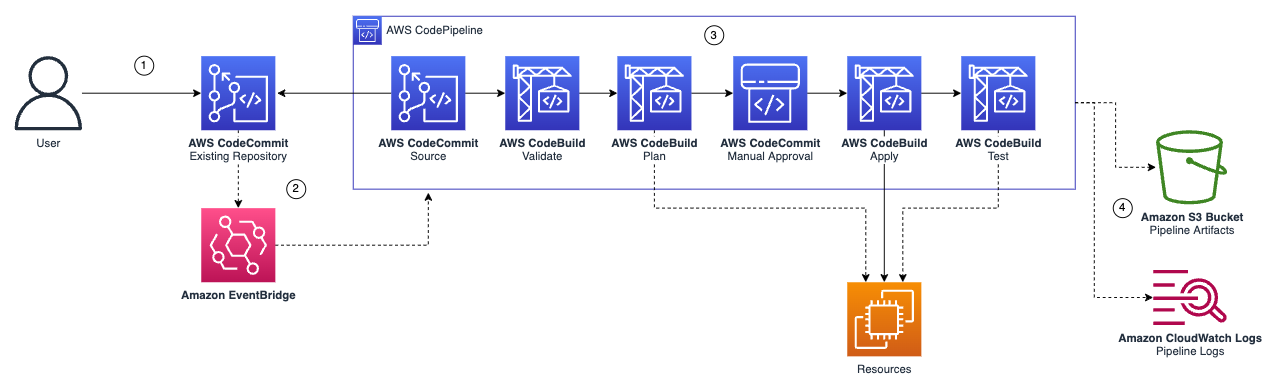
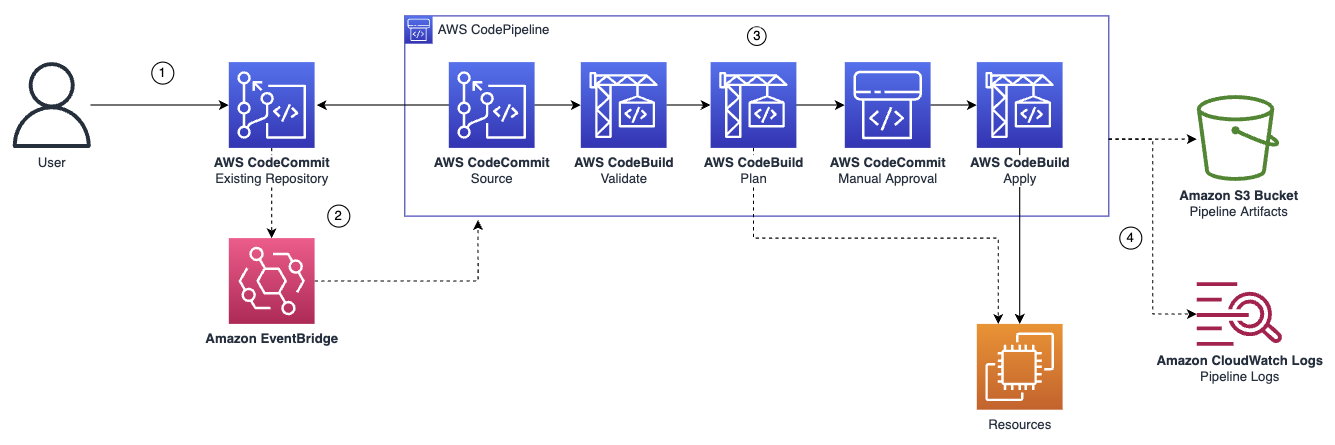
rm test step

diff --git a/README.md b/README.md
@@ -1,33 +1,29 @@
-# aws-terraform-pipeline
+<p align="center">
+<h1> aws-terraform-pipeline</h1>
+</p>
 
-This Terraform module will create a pipeline to deploy Terraform. It can deploy resources to the same AWS account, or another AWS account using a cross-account role. 
 
-It could be used to:
-- validate code and resources before deployment
-- ensure resources are configured securely 
-- introduce a manual approval step to your deployment process
 
-This module is designed to be deployed remotely, using the [GitHub source type](https://developer.hashicorp.com/terraform/language/modules/sources#github). But it could be deployed locally, or from your own private registry. 
+<p align="center">
+An easy way to deploy Terraform ... with Terraform. 
+</p>
 
 ## Prerequisites
-
 - [AWS CLI](https://docs.aws.amazon.com/cli/latest/userguide/getting-started-install.html)
 - [Terraform](https://learn.hashicorp.com/tutorials/terraform/install-cli)
 - Existing AWS CodeCommit repository
 
 ## Limitations
-
-- This pipeline will only validate and deploy Terraform 
-- This existing CodeCOmmit repository must have a remote backend 
+- This pattern requires a [remote state](https://developer.hashicorp.com/terraform/language/state/remote)
 
 ## Architecture
-The module is sourced remotely using the [GitHub source type](https://developer.hashicorp.com/terraform/language/modules/sources#github). But it could be cloned and sourced locally, if required. 
+The module is sourced remotely using the [GitHub source type](https://developer.hashicorp.com/terraform/language/modules/sources#github). But it could be cloned and sourced locally or from your own private registry, if required. 
 
 ![image info](./img/architecture.png)
 
 1. User commits to existing repository. 
 2. The commit invokes an Amazon EventBridge rule, which runs the AWS CodePipeline pipeline.
-3. The pipeline validates the code, then runs a `terraform plan`, before waiting for manual approval. Once this is issued, the resources are built with a `terraform apply`, and then tested.  
+3. The pipeline validates the code, then runs a `terraform plan`, before waiting for manual approval. Once this is issued, the resources are built with a `terraform apply`. 
 4. Pipeline artifacts are sent to an Amazon S3 bucket. Pipeline activity is logged in Amazon CloudWatch logs. 
 
 #### Pipeline Validation
@@ -41,7 +37,7 @@ The module is sourced remotely using the [GitHub source type](https://developer.
 
 ## Deployment
 
-The pipeline module is deployed from a separate `deploy` directory within your existing CodeCommit repo. This segregates your existing code from the pipeline. 
+The module is deployed from a separate `deploy` directory within your existing CodeCommit repo. This segregates your existing code from the pipeline. 
 
 ```
 your repo
@@ -55,9 +51,9 @@ your repo
 
 This means terraform commands can be run against your existing repository, by the pipeline, without affecting the pipeline infrastructure. 
 
-### Inputs
+### Module Inputs
 
-These are the module inputs for the `main.tf` file in the `deploy` directory.
+These are the module inputs for the `main.tf` file in the `deploy` directory. It is setup for a [GitHub source type](https://developer.hashicorp.com/terraform/language/modules/sources#github) but it could be cloned and deployed locally. 
 
 ```
 terraform {
@@ -71,7 +67,7 @@ terraform {
 }
 
 provider "aws" {
-  region = "eu-west-2"
+  region = "eu-west-2" 
 }
 
 module "pipeline" {
@@ -99,31 +95,34 @@ module "pipeline" {
 5. From the `deploy` directory, run `terraform init`, then `terraform apply` on your chosen AWS account. 
 
 ### Run the pipeline
-1. Ensure your repository has a remote state configured that [this codebuild policy](./modules/pipeline/codebuild.tf?plain=1#198) can access. An S3 backend within the same AWS account is ideal for this.
+1. Ensure your repository has a remote state configured that [this codebuild policy](./modules/pipeline/codebuild.tf?plain=1#198) can access. An S3 backend within the same AWS account is ideal for this, but ensure you use a different key to your `deploy` directory. 
 2. Commit changes to your repository. This will run the pipeline. 
 
-## Optional Operations
-
-### Edit the pipeline 
+### (Optional) Edit the pipeline 
 If you need to edit an existing pipeline, do so from the `deploy` directory with a `terraform apply`.
 
-### Setup a cross-account pipeline
+### (Optional) Setup a cross-account pipeline
 The pipeline can assume a cross-account role and deploy to another AWS account. Ensure there is a cross-account role that can be assumed by [this codebuild policy](./modules/pipeline/codebuild.tf?plain=1#198), then edit the terraform provider in your repository to include the `assume role` argument.
 
 ## Troubleshooting
 
 | Issue | Fix |
 |---|---|
-| Failed lint, fmt, or SAST checks | Read the report or logs to discover why the code has failed, then make a new commit |
-| Failed plan or apply stage | Read the report or logs to discover error in terraform code, then make a new commit |
-| Failed SAST for known issue | Read the checkov logs and then add an exception to `tf_sast.yml` in `buildspecs` |
-| `Error: error creating CodeBuild Report Group: InvalidInputException: Invalid encryption key: region does not match current region` during `terraform apply` | Make sure you have defined the variables, including `region` in `config.auto.tfvars` 
-| `Terraform initialized in an empty directory!` | Make sure you are in the `deploy` directory when running `terraform init` |
-| Pipeline fails on apply with `the action failed because no branch named main was found ...` | This happens when nothing has been committed to the repo. Commit files to the main branch to initiate the pipeline. |
+| Failed lint, fmt, or SAST checks | Read the report or logs to discover why the code has failed, then make a new commit. |
+| Failed plan or apply stage | Read the report or logs to discover error in terraform code, then make a new commit. |
+| Failed SAST | Read the checkov logs (Details > Reports) and either make the correction in code or add a skip to the module inputs. |
+| `Error: error creating CodeBuild Report Group: InvalidInputException: Invalid encryption key: region does not match current region` during `terraform apply` | Ensure you have defined the correct `region` in `main.tf`.  
+| `Terraform initialized in an empty directory!` | Make sure you are in the `deploy` directory when running `terraform init`. |
+| Pipeline fails on apply with `the action failed because no branch named main was found ...` | Either nothing has been committed to the repo or the branch is incorrect (Eg using `Master` not `Main`). Either commit to the Main branch or change the module input to fix this. |
 
-## Best Practice
+## Best Practices
 
-The CodeBuild role is highly privileged as this pattern is intended for a wide audience. You may want to reduce the scope of the role and define specific services, or actions. If you are operating at scale with multiple pipelines, you should consider a [Service Control Policy (SCP)](https://docs.aws.amazon.com/organizations/latest/userguide/orgs_manage_policies_scps.html) to protect the role from being edited or assumed by other principals. You could also use a SCP to prohibit actions like `IAM:CreateUser` or `account:*`. 
+The CodeBuild execution role is highly privileged as this pattern is designed for a wide audience to deploy any resource to an AWS account. You may want to reduce the scope of the role and define specific services or actions, depending on your requirements. If you are operating at scale with multiple pipelines, you should consider a [Service Control Policy (SCP)](https://docs.aws.amazon.com/organizations/latest/userguide/orgs_manage_policies_scps.html) to protect the role from being edited or assumed by other principals. You could also use a SCP to prohibit actions like `IAM:CreateUser` or `account:*`. 
+
+Permissions to your CodeCommit repository, CodeBuild projects, and CodePipeline pipeline should be tightly controlled. Here are some ideas:
+- [Specify approval permission for specific pipelines and approval actions](https://docs.aws.amazon.com/codepipeline/latest/userguide/approvals-iam-permissions.html#approvals-iam-permissions-limited).
+- [Using identity-based policies for AWS CodeBuild](https://docs.aws.amazon.com/codebuild/latest/userguide/auth-and-access-control-iam-identity-based-access-control.html). 
+- [Limit pushes and merges to branches in AWS CodeCommit](https://docs.aws.amazon.com/codecommit/latest/userguide/how-to-conditional-branch.html)
 
 ## Related Resources
 
@@ -140,4 +139,3 @@ See [CONTRIBUTING](CONTRIBUTING.md#security-issue-notifications) for more inform
 ## License
 
 This library is licensed under the MIT-0 License. See the LICENSE file.
-
